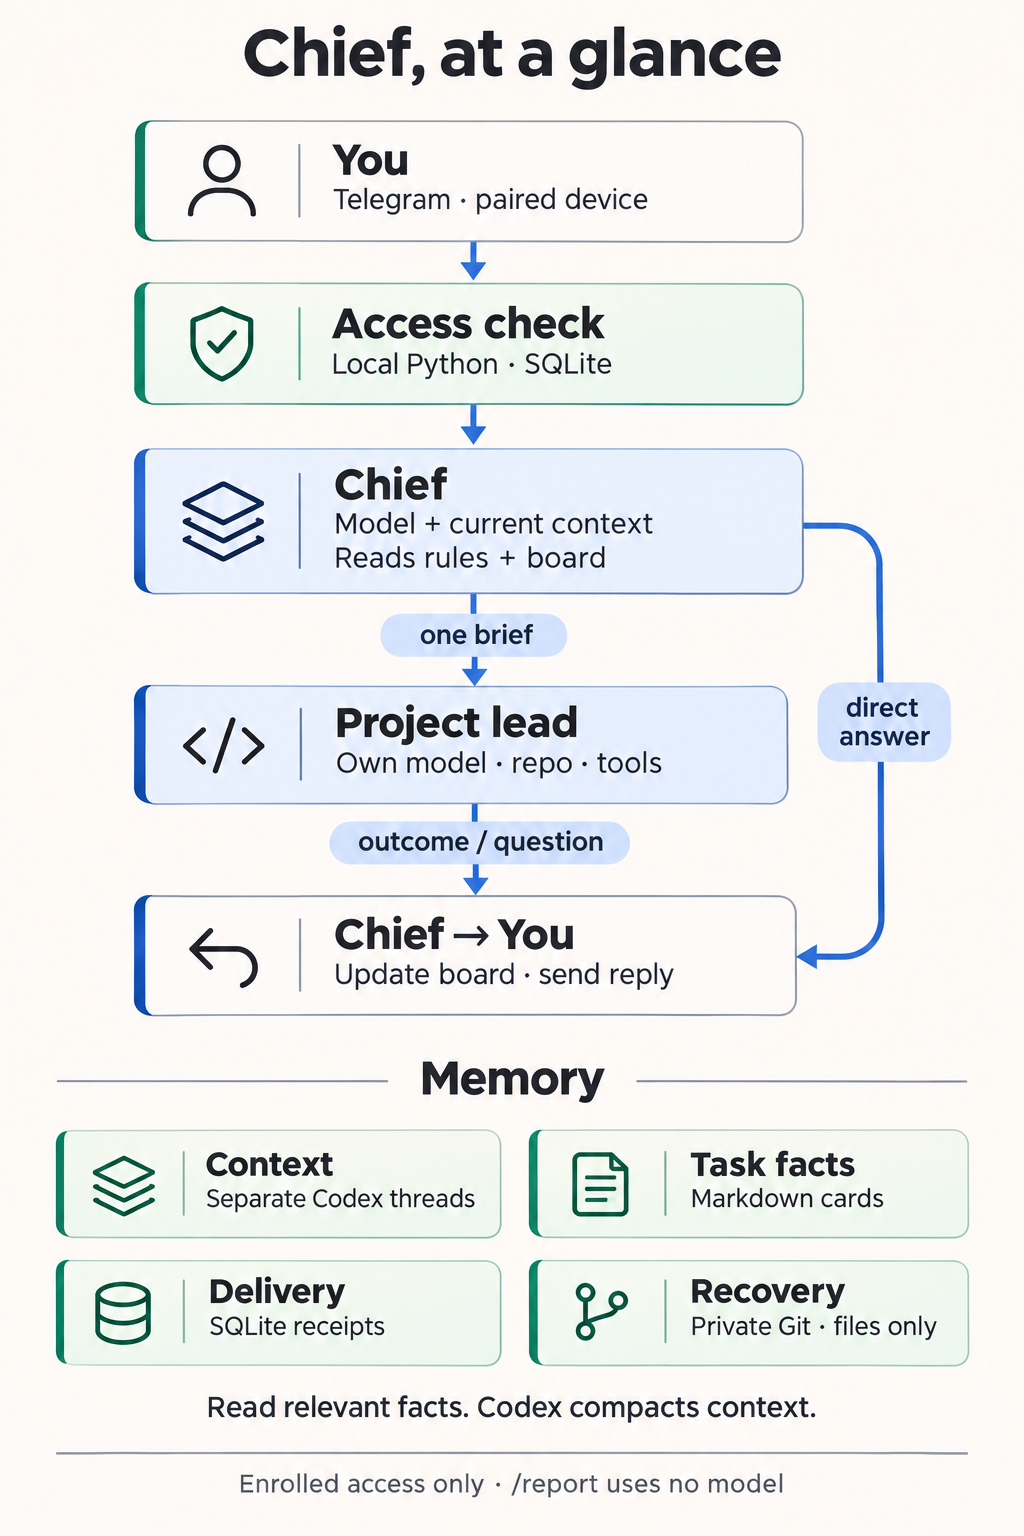
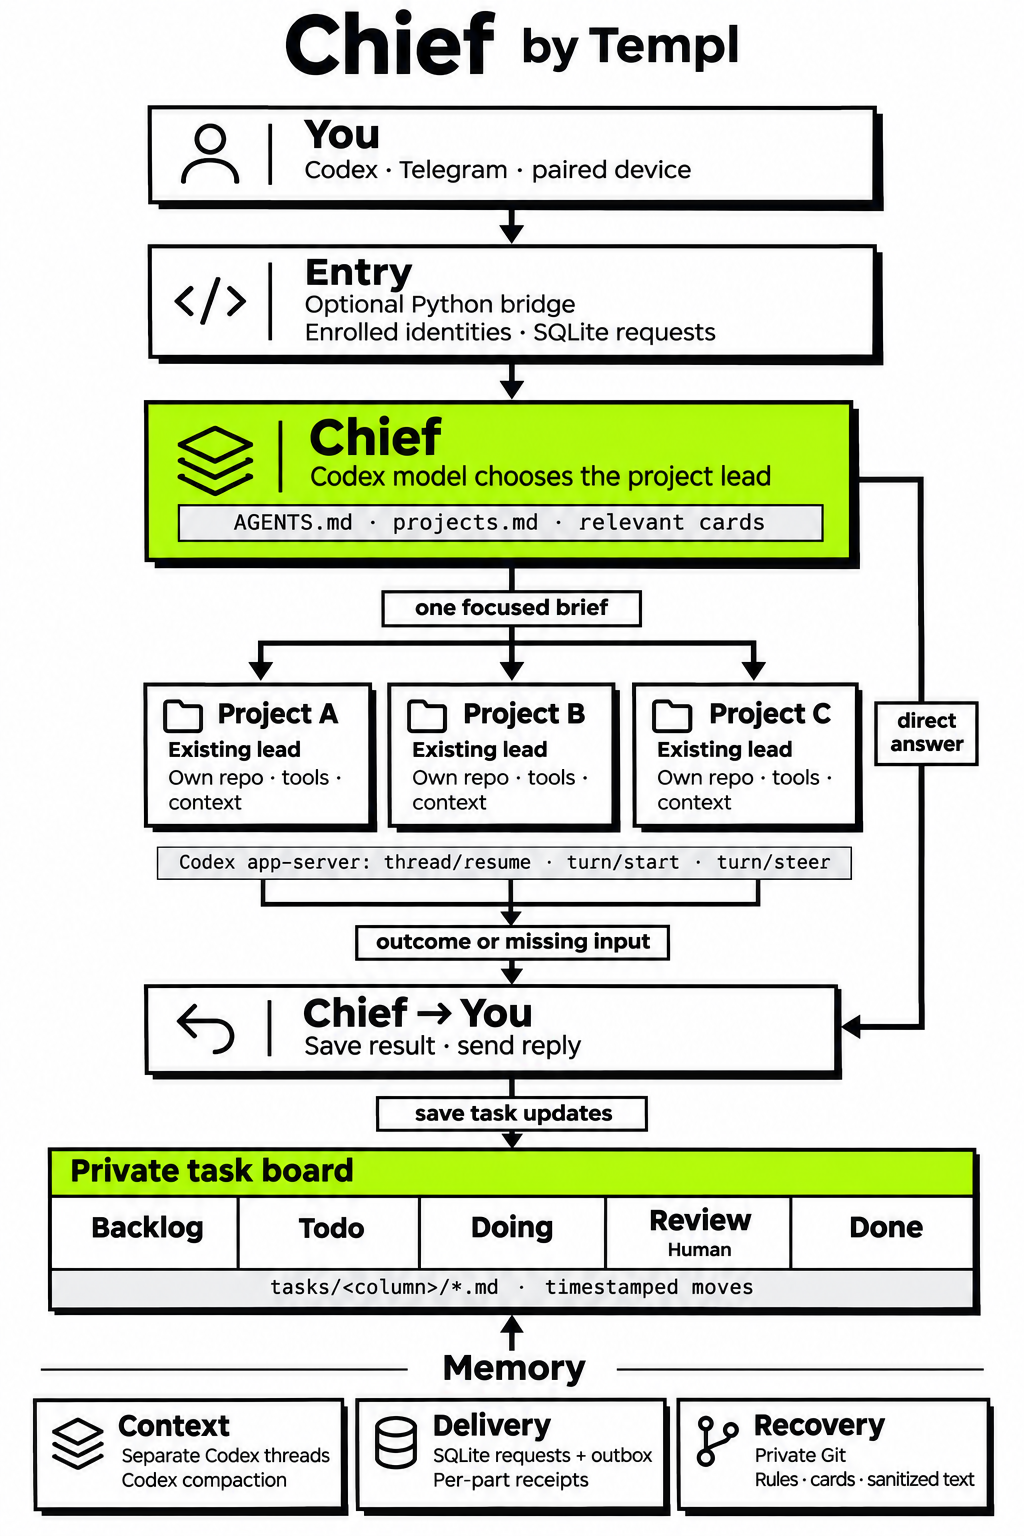
Brand the combined Chief diagram for Templ

Changed region(s): [[0.0312, 0.0, 0.9688, 1.0]]

diff --git a/chief/map.md b/chief/map.md
@@ -1,9 +1,9 @@
-# Chief, at a glance
+# Chief by Templ
 
-![Chief request flow, resources and memory](overview-v3.png)
+![Chief by Templ: projects, task board and memory](overview-v4.png)
 
-[Full-size image](overview-v3.png) · [Editable Mermaid](architecture.mmd) · [Resource and memory details](architecture-details.md)
+[Full-size image](overview-v4.png) · [Editable Mermaid](architecture.mmd) · [Technical reference](architecture-details.md)
 
-Chief uses the model’s judgment to answer or choose an existing project lead. Small adapters check access and deliver the result. Each lead keeps its own context and tools.
+One Chief can coordinate many projects. Each project keeps its existing lead, repository, tools and context. The model chooses the lead; the adapters carry the request and result.
 
-This shows the installed flow, checked November 16, 2026. Public guides do not install the adapters or grant access.
+The board uses Backlog, Todo, Doing, Review and Done. Markdown stores tasks and timestamped moves; SQLite stores transport state; Codex manages each thread’s context and compaction. Private Git can preserve selected files and sanitized records.
